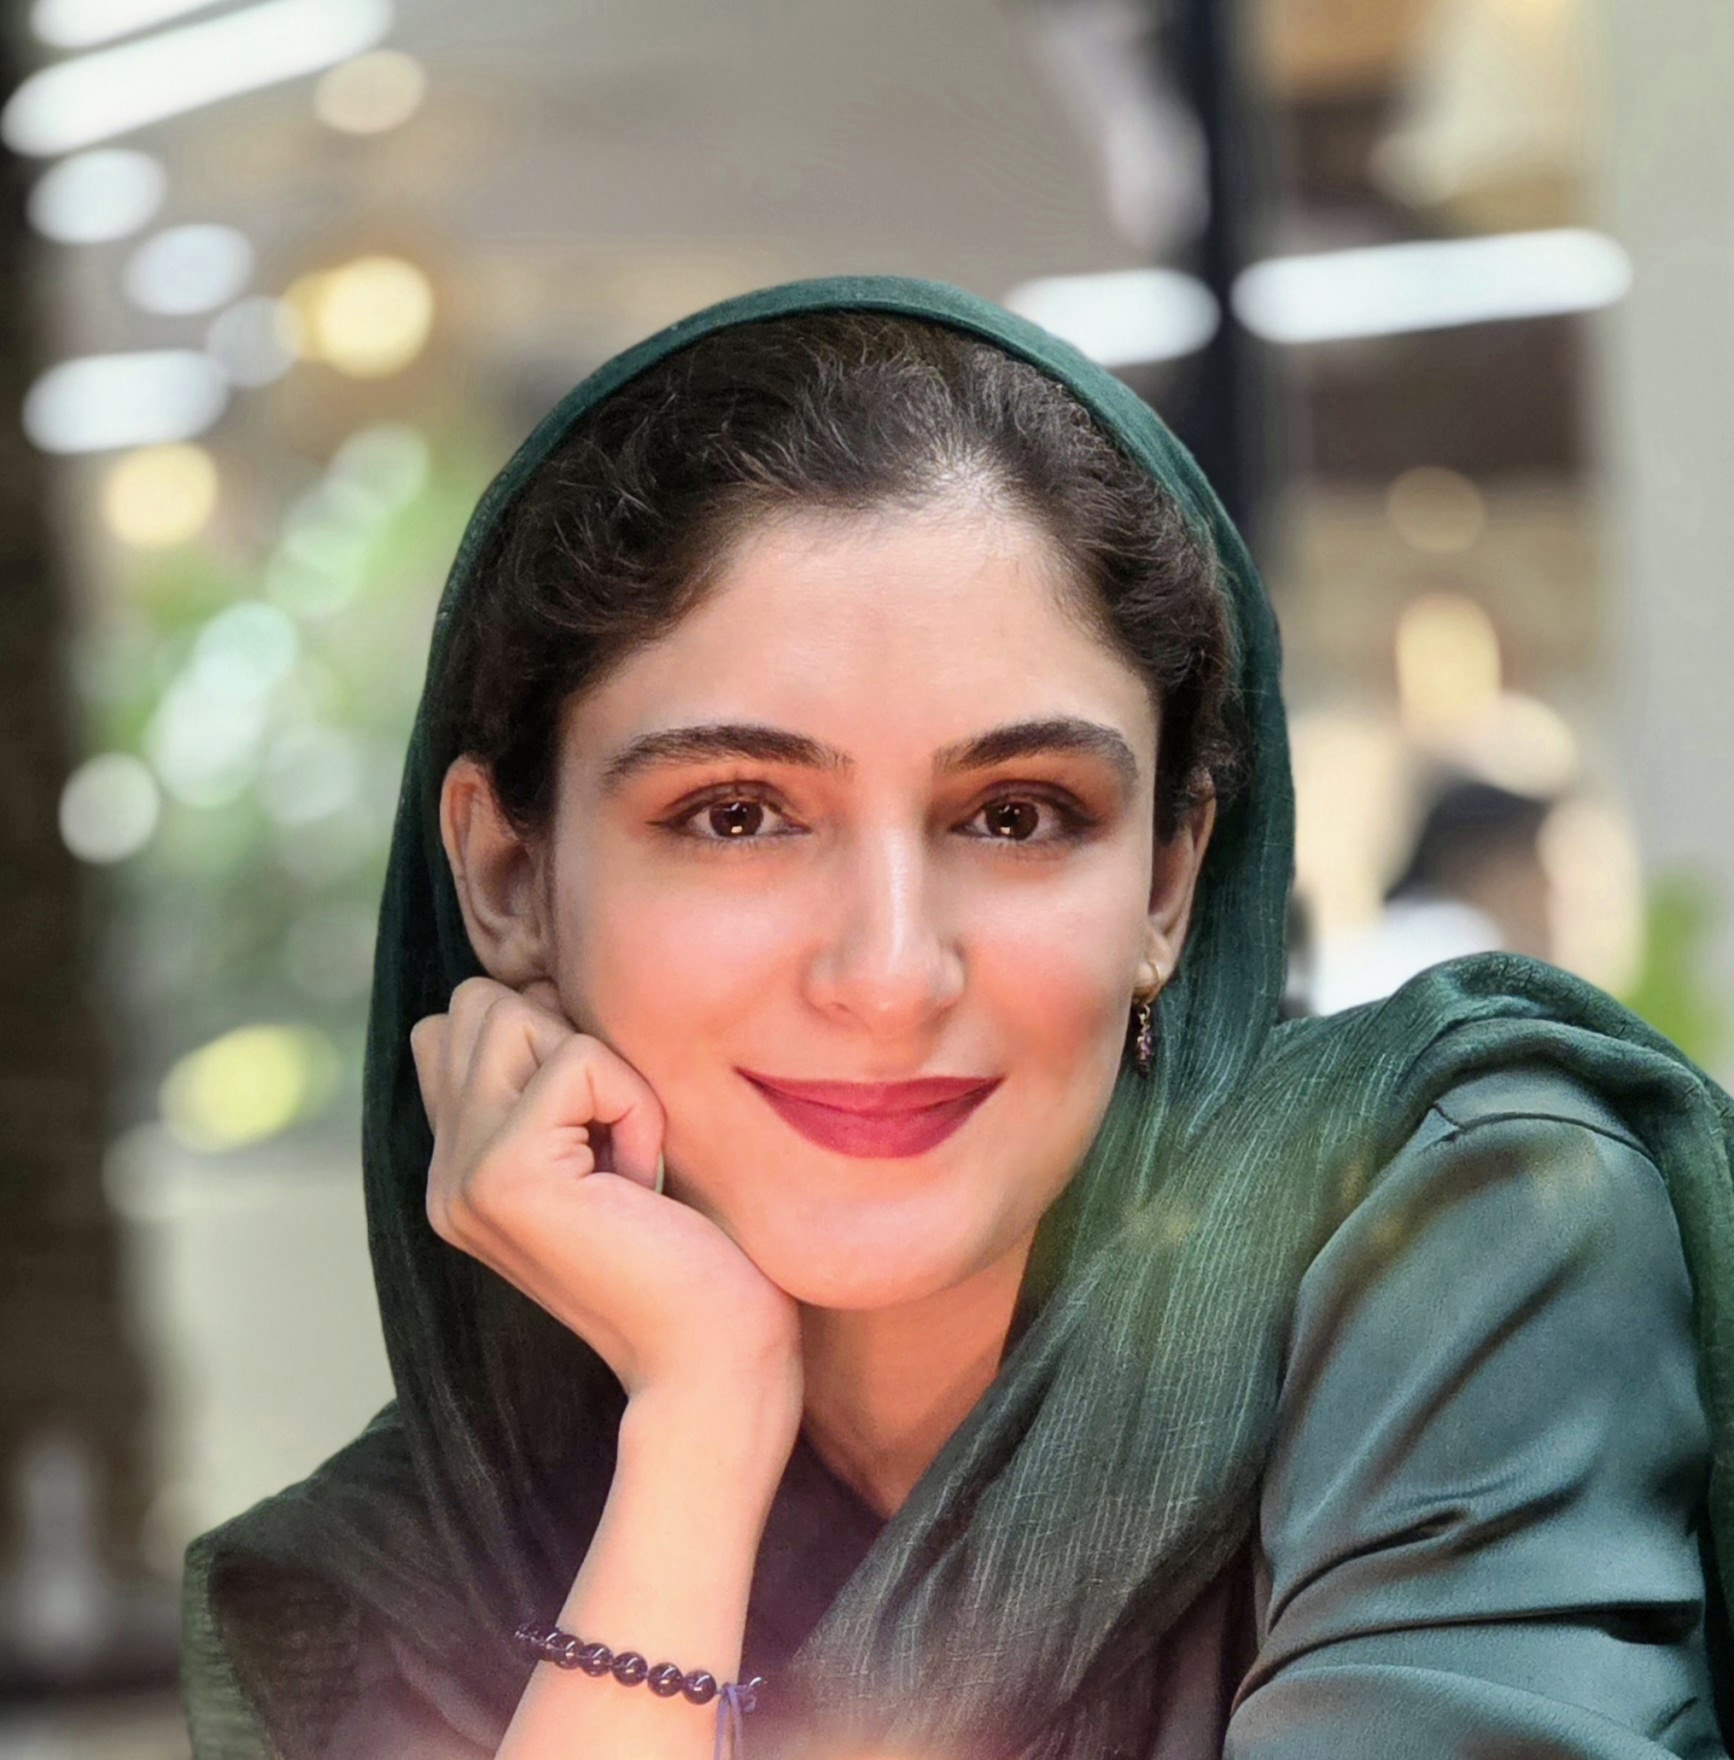
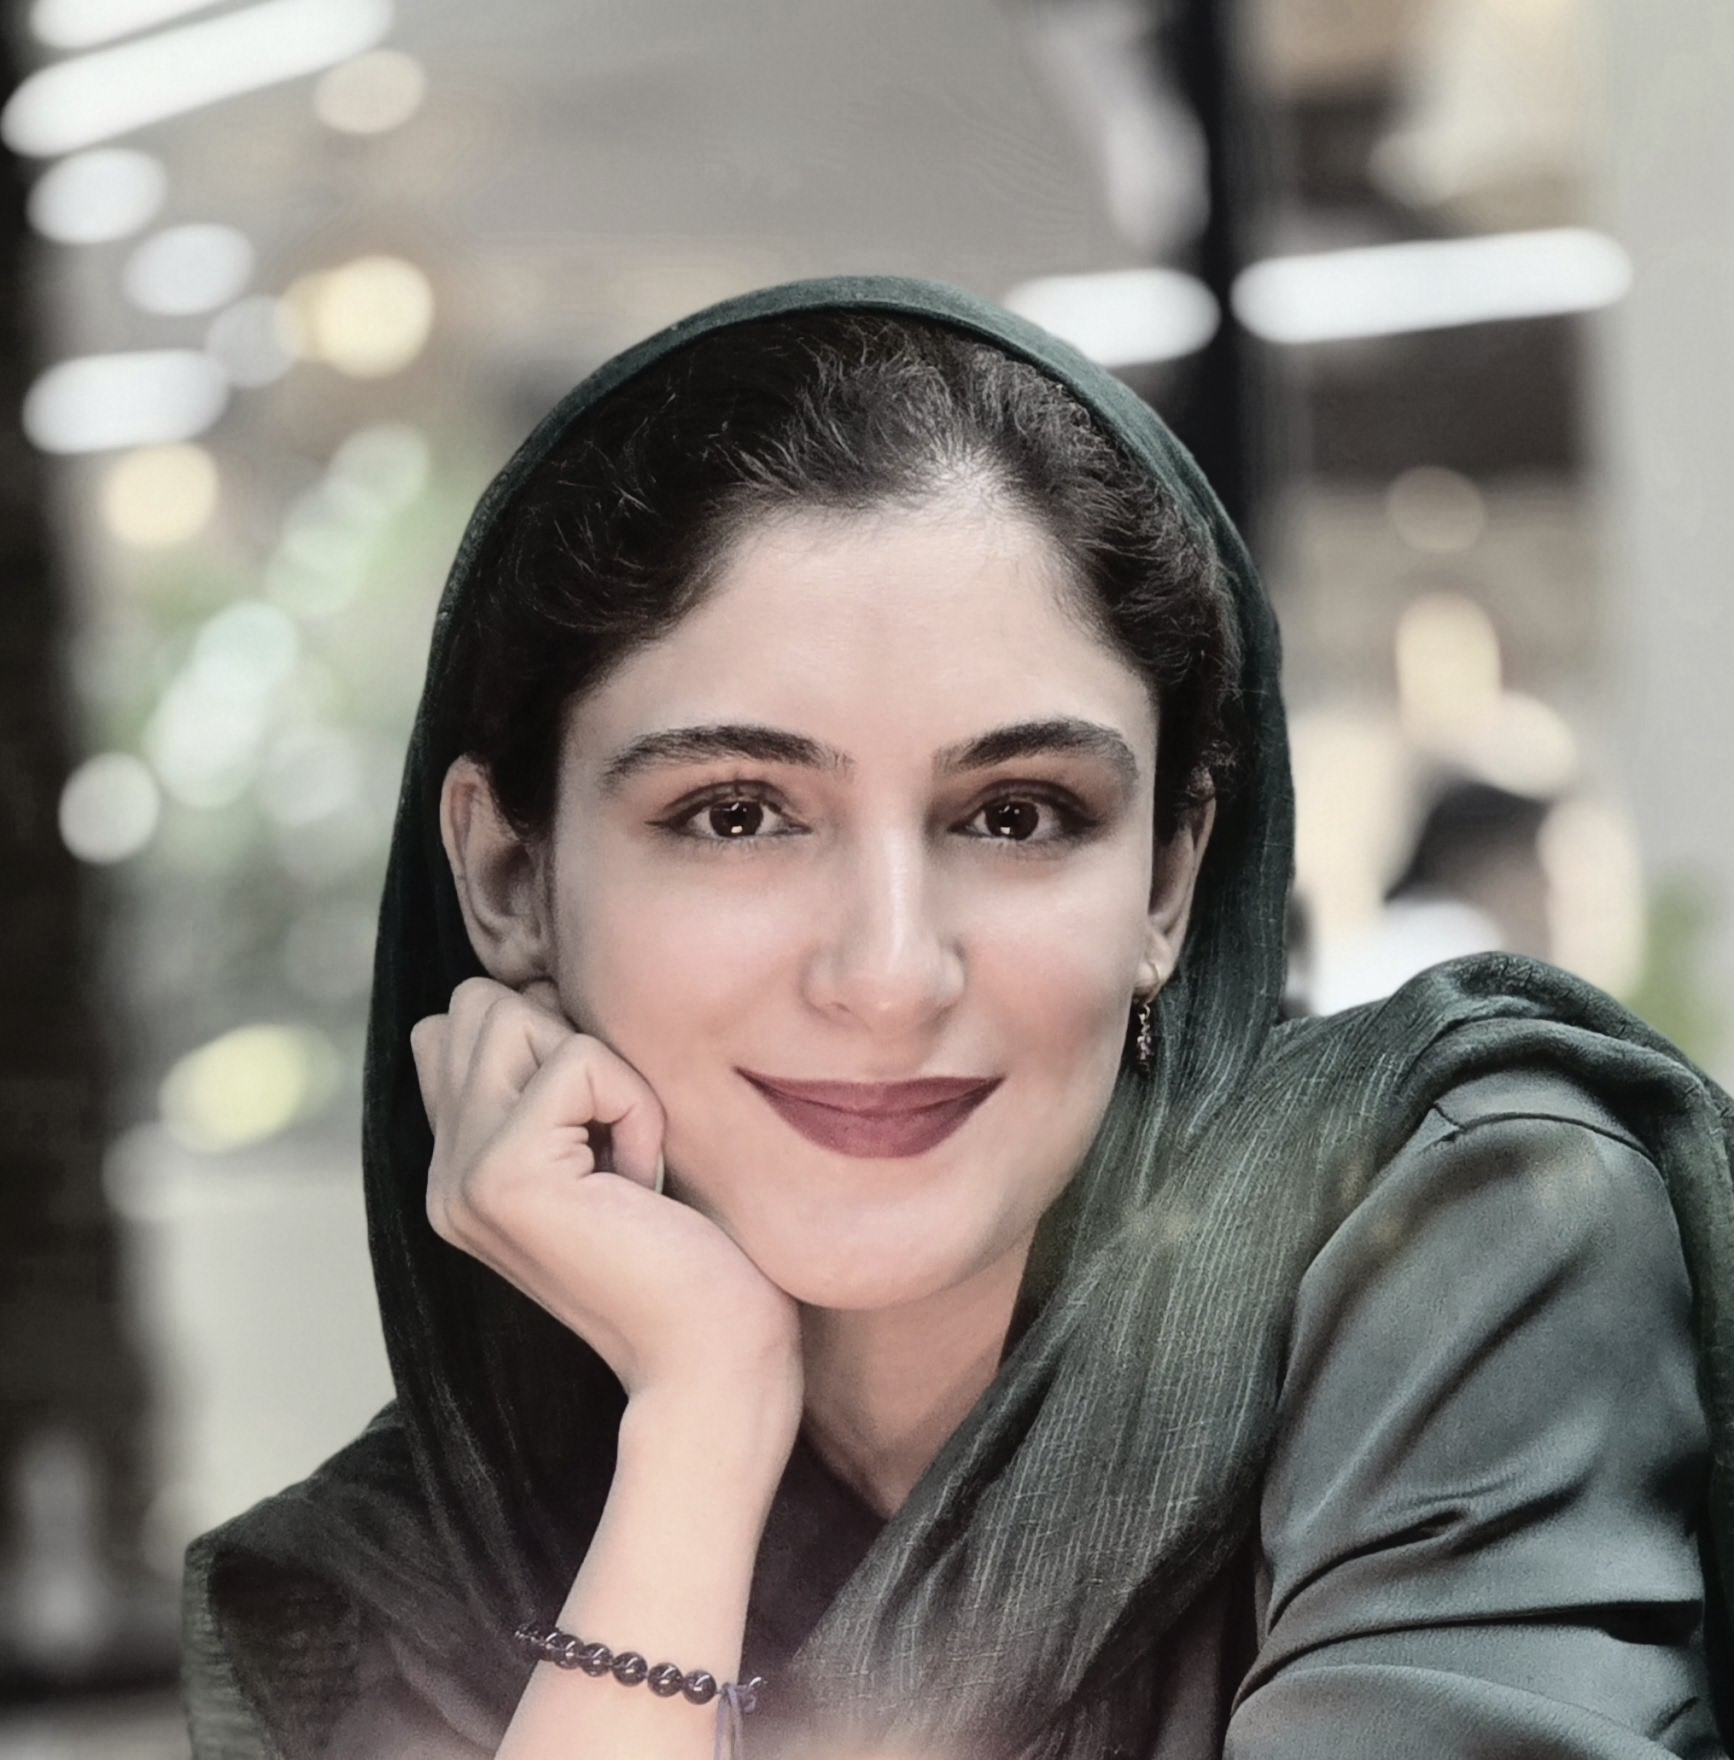
Fix-PicPos

diff --git a/html/3d-modeling.html b/html/3d-modeling.html
@@ -566,12 +566,18 @@
       height: 250px;
       border-radius: 20px;
       background: var(--gradient-1);
-      display: flex;
-      align-items: center;
-      justify-content: center;
-      font-size: 5rem;
+      display: block;
       position: relative;
       overflow: hidden;
+    }
+
+    .instructor-avatar img {
+      display: block;
+      width: 100%;
+      height: 100%;
+      object-fit: cover;
+      object-position: center;
+      border-radius: inherit;
     }
 
     .instructor-avatar::after {
@@ -579,7 +585,7 @@
       position: absolute;
       inset: -3px;
       border: 2px solid var(--border-glow);
-      border-radius: 20px;
+      border-radius: 22px;
     }
 
     .instructor-info h3 {

diff --git a/html/unity.html b/html/unity.html
@@ -556,12 +556,18 @@
       height: 250px;
       border-radius: 20px;
       background: var(--gradient-1);
-      display: flex;
-      align-items: center;
-      justify-content: center;
-      font-size: 5rem;
+      display: block;
       position: relative;
       overflow: hidden;
+    }
+
+    .instructor-avatar img {
+      display: block;
+      width: 100%;
+      height: 100%;
+      object-fit: cover;
+      object-position: center;
+      border-radius: inherit;
     }
 
     .instructor-avatar::after {
@@ -569,7 +575,7 @@
       position: absolute;
       inset: -3px;
       border: 2px solid var(--border-glow);
-      border-radius: 20px;
+      border-radius: 22px;
     }
 
     .instructor-info h3 {
